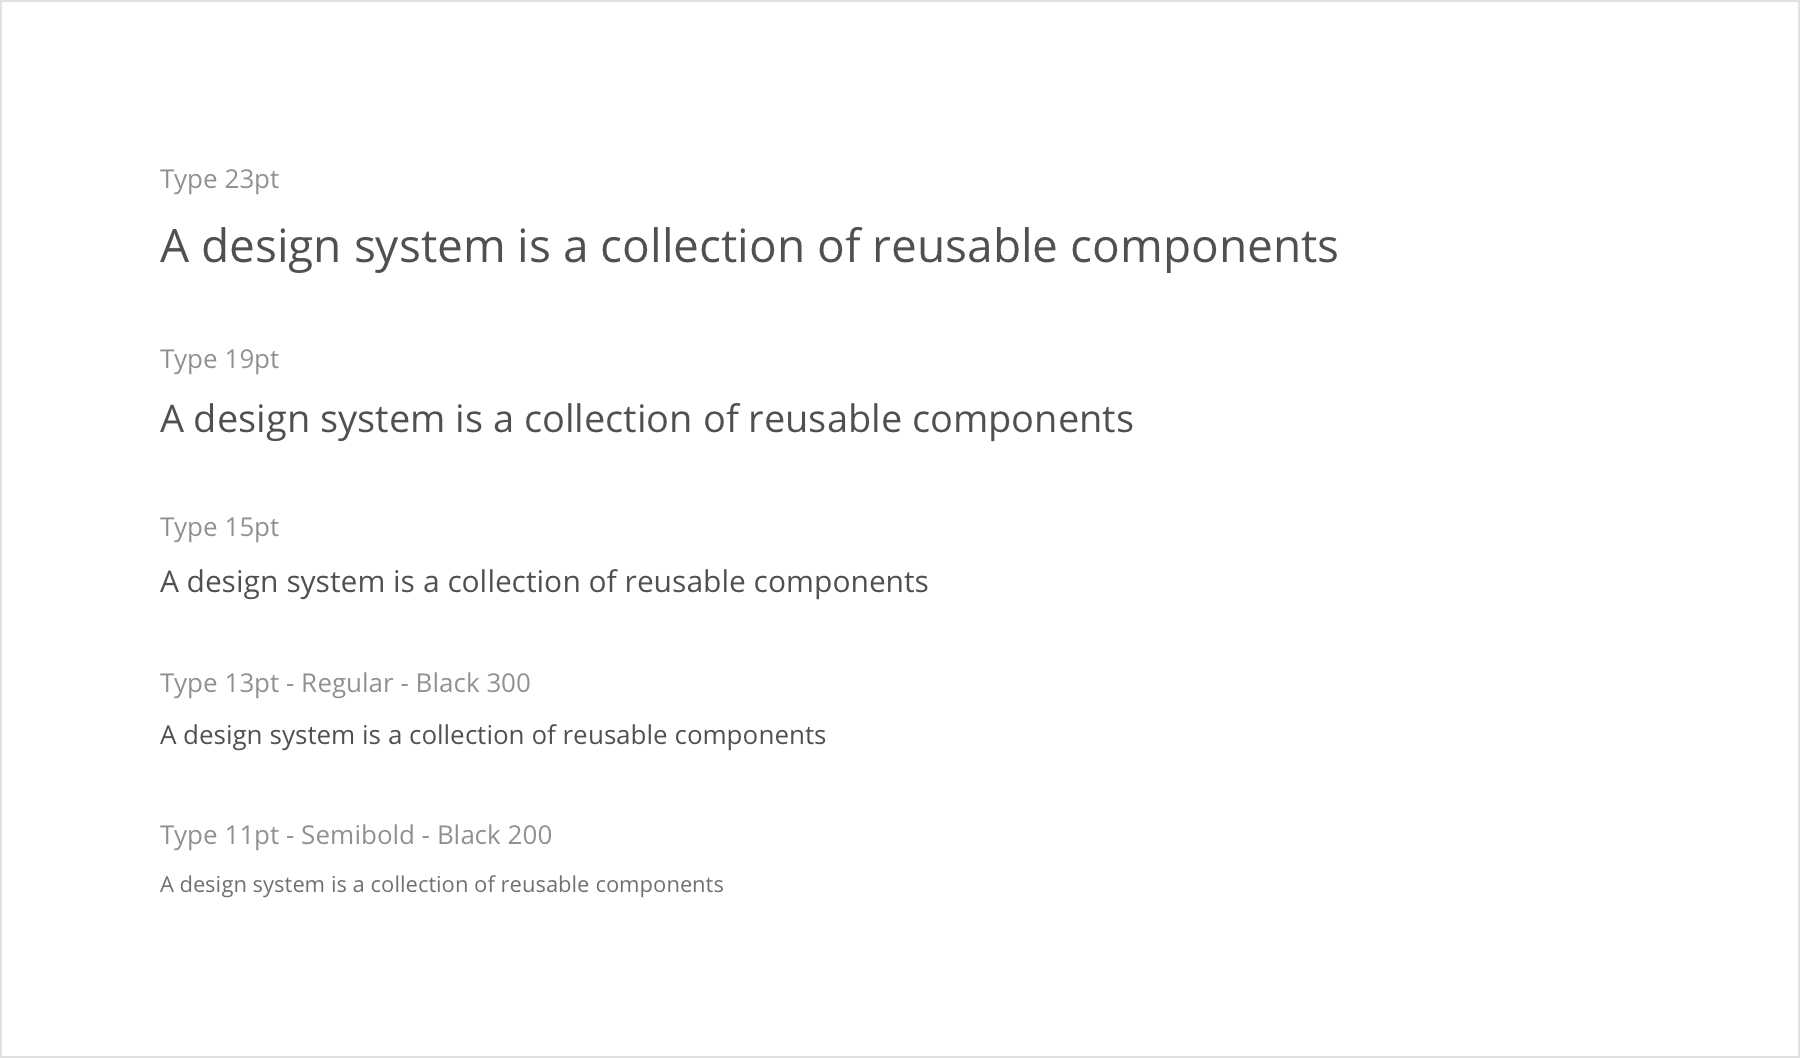
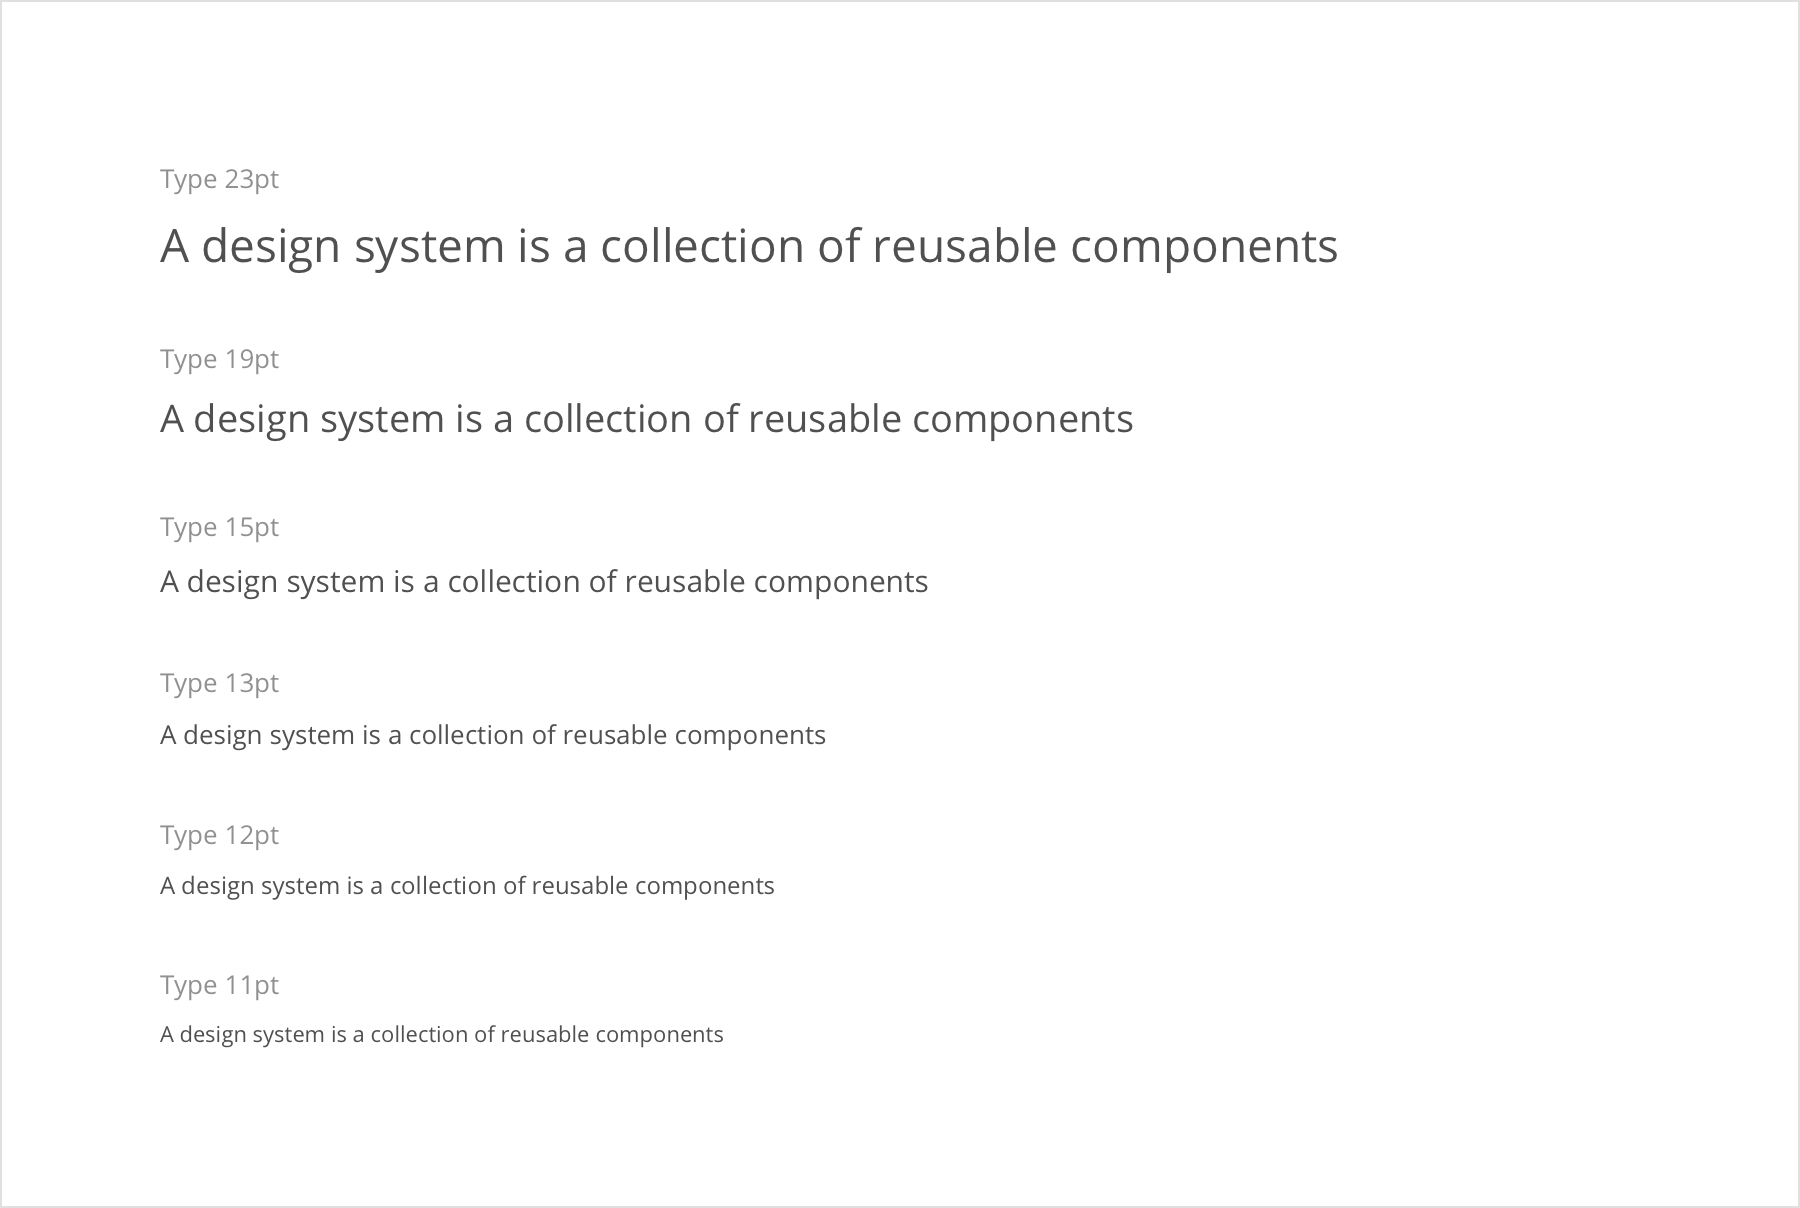
Updates foundations/typography.md
Auto commit by GitBook Editor

diff --git a/foundations/typography.md b/foundations/typography.md
@@ -19,7 +19,7 @@ This typeface is used in two different weights: **Regular** and **Semibold**.
 
 ##### Text size
 
-Open Sans typeface is used in following sizes: **23pt,** **19pt, 15pt, 13pt and 11pt.**
+Open Sans typeface is used in following sizes: **23pt,** **19pt, 15pt, 13pt, 12pt **and** 11pt.**
 
 ![](/assets/foundations/typography-open-sans-text-size.png)
 
@@ -41,7 +41,7 @@ This typeface is used only in **Regular** weight.
 
 ##### Text size
 
-Montserrat typeface is used in following sizes: **14pt, 13pt, 12pt.**
+Montserrat typeface is used in following sizes: **14pt, 13pt **and** 12pt.**
 
 ![](/assets/foundations/typography-montserrat-text-size.png)
 
